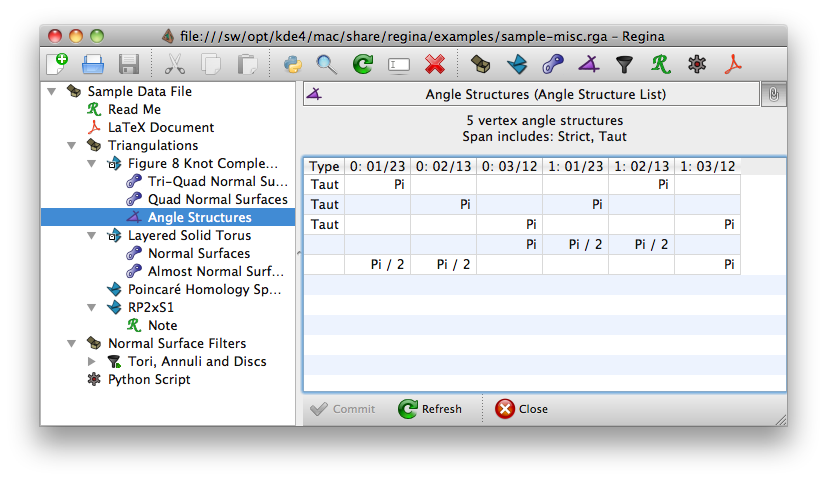
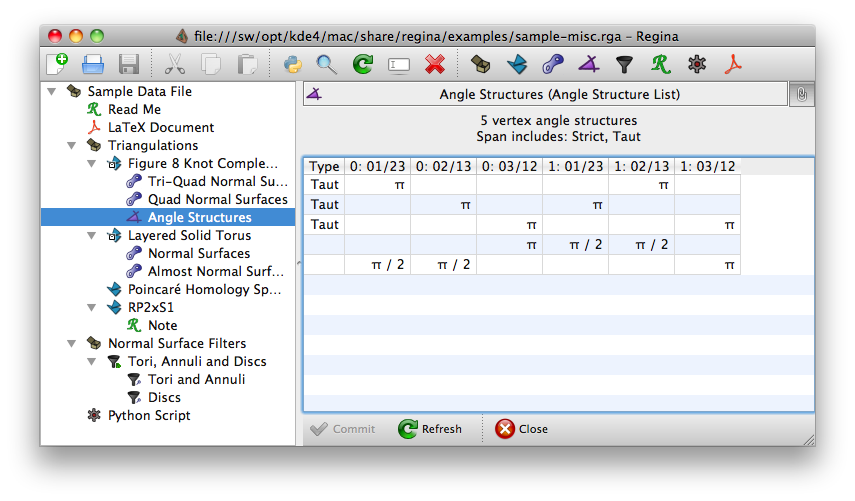
Use a real Pi.

Changed region(s): [[0.0302, 0.0312, 0.9674, 0.9044]]

diff --git a/kdeui/src/part/packettypes/nanglestructureui.cpp b/kdeui/src/part/packettypes/nanglestructureui.cpp
@@ -78,7 +78,7 @@ QVariant AngleModel::data(const QModelIndex& index, int role) const {
             if (angle == 0)
                 return QVariant();
 
-            static const QString pi(i18n("Pi"));
+            static const QString pi(QChar(0x3c0));
             if (angle == 1)
                 return pi;
             else if (angle.getDenominator() == 1)
@@ -143,9 +143,9 @@ NAngleStructureUI::NAngleStructureUI(NAngleStructureList* packet,
     stats->setWhatsThis(i18n("<qt>Displays various statistics about this "
         "angle structure list, including whether the underlying triangulation "
         "supports any strict and/or taut angle structures.  A <i>strict</i> "
-        "angle structure has all of its angles strictly between 0 and Pi, "
+        "angle structure has all of its angles strictly between 0 and &pi;, "
         "whereas a <i>taut</i> angle structure has all of its angles equal "
-        "to either 0 or Pi.<p>"
+        "to either 0 or &pi;.<p>"
         "Note that this header might incidate that the triangulation supports "
         "a strict angle structure even if none appear in the list below "
         "&ndash; the strict angle structure might only be found as a "
